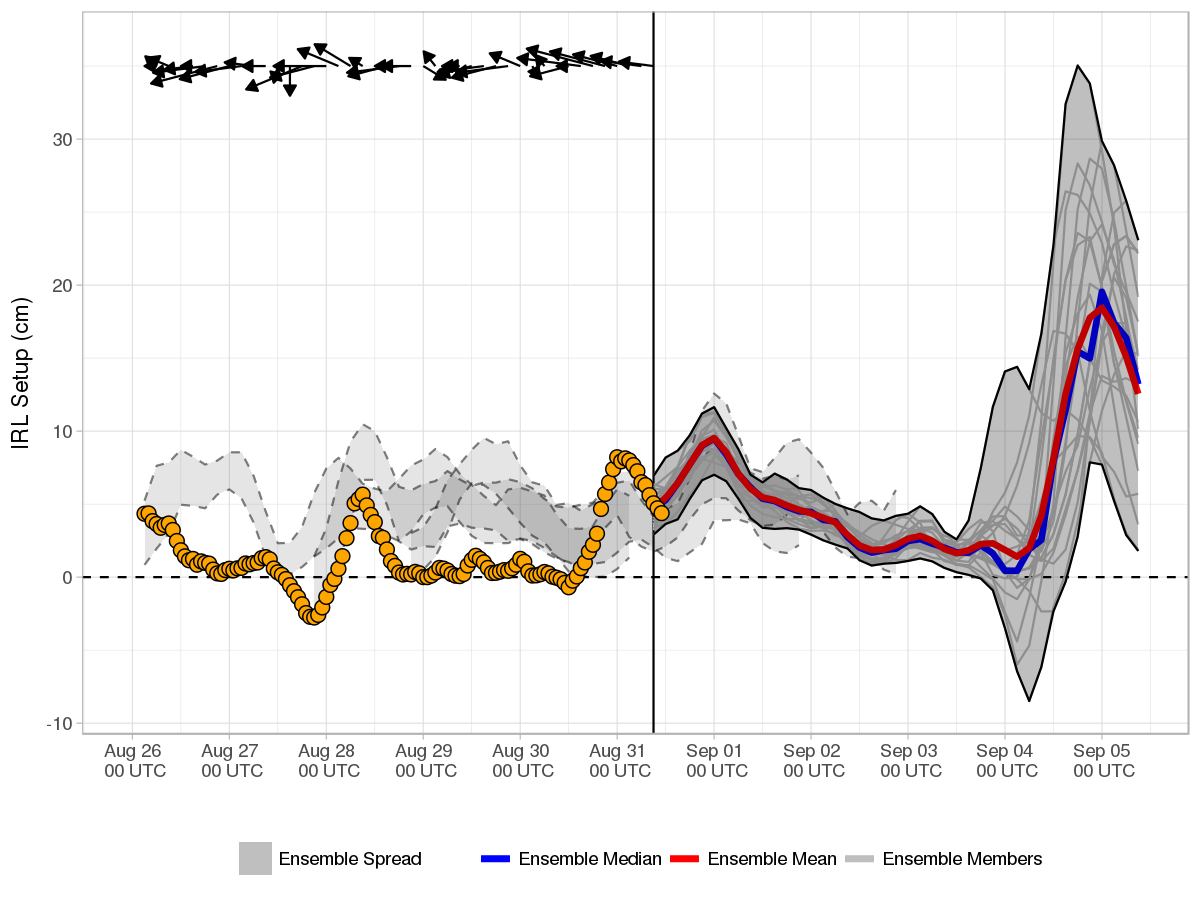
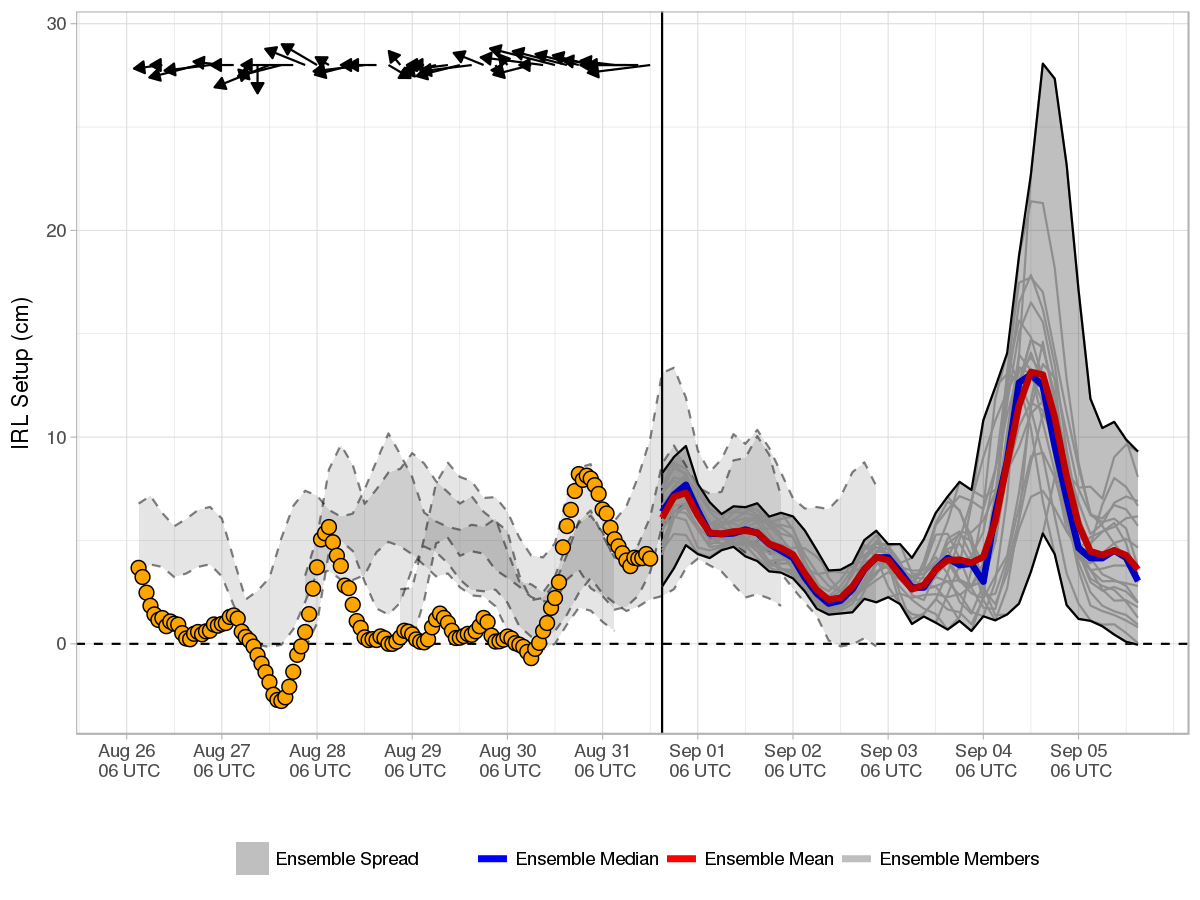
Forecast Update

diff --git a/docs/index.md b/docs/index.md
@@ -1,9 +1,9 @@
-Current Forecast 2018-08-31, Cycle 06 UTC
+Current Forecast 2018-08-31, Cycle 12 UTC
 -----------------------------------------
 
 [![](img/raw_setup.png)](https://fit-winds.github.io/IRLSetup/img/raw_setup.png)
 
-> Forecast valid 2018-08-31 08:17:26.
+> Forecast valid 2018-08-31 14:25:20.
 
 Explanation
 -----------
@@ -23,7 +23,7 @@ Ensemble Forecast System
 cycles. Calculation of the IRL setup is performed shortly after a new
 GEFS cycle is made available on the [data access
 link](http://www.ftp.ncep.noaa.gov/data/nccf/com/gens/prod/). The
-current cycle 2018-08-31 06 UTC 0.5° GEFS mean and median forecasts of
+current cycle 2018-08-31 12 UTC 0.5° GEFS mean and median forecasts of
 setup are represented by the red and blue curves, respectively. Ensemble
 spread from the current and three previous GEFS runs are shaded grey and
 bounded by solid and dashed curves, respectively.
